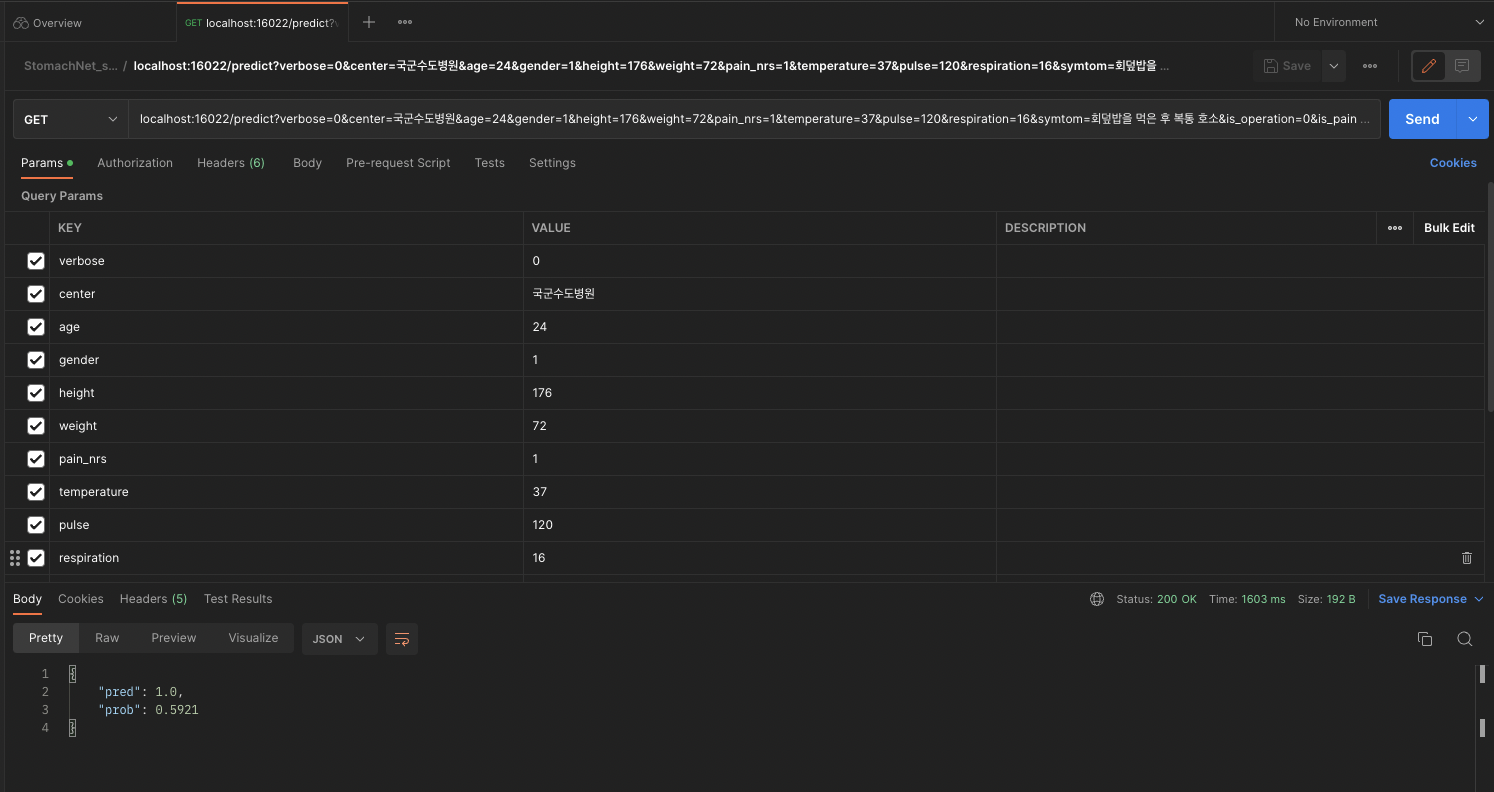
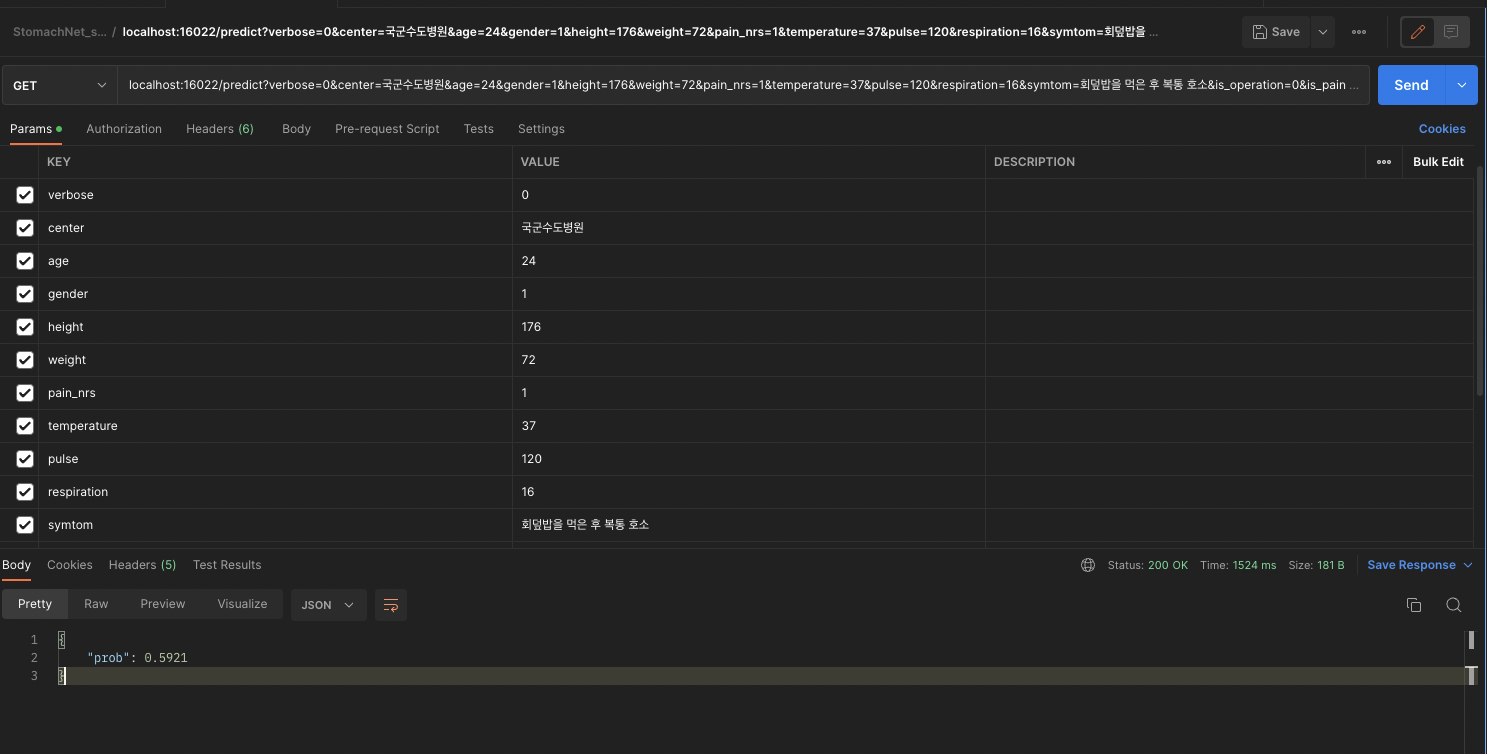
Remove pred

diff --git a/app.py b/app.py
@@ -44,12 +44,11 @@ def main():
             is_digestive, is_hemoptysis, is_blood_excrement, 
             pulse, temperature, respiration]
     
-    prob, pred = predict(encoded_symtom, meta)
+    prob = predict(encoded_symtom, meta)
     
     if verbosity == 1:
         return_data = {
             'prob': prob,
-            'pred': pred, 
             'center': center,
             'age': age,
             'gender': gender,
